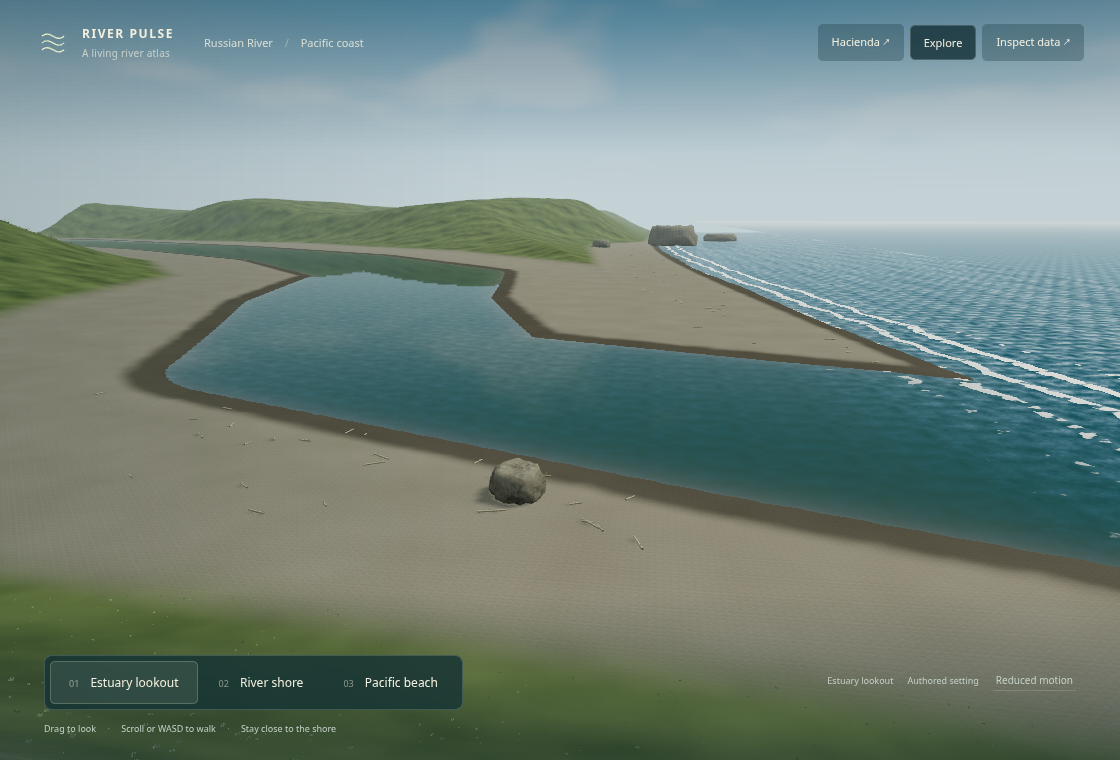
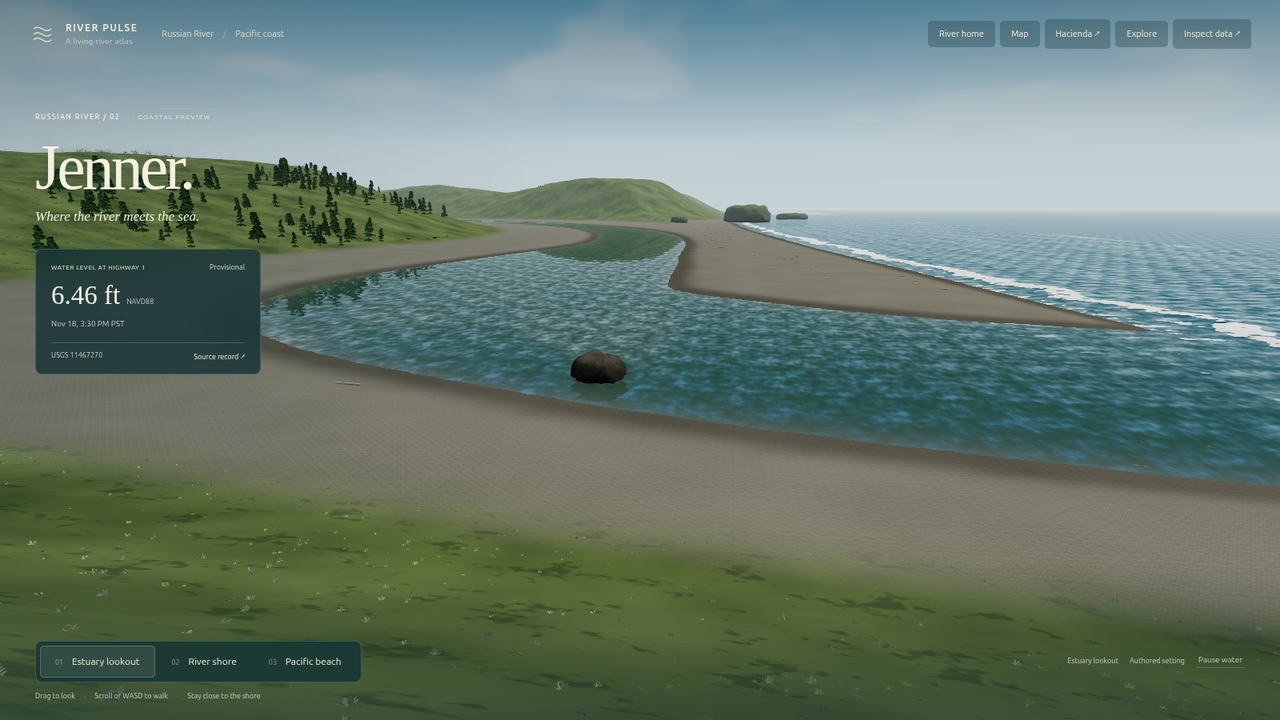
README: fresh Jenner Estuary preview from the current scene

diff --git a/README.md b/README.md
@@ -21,7 +21,7 @@ or go straight to the reference river:
 [Hacienda Bridge](https://boxwrench.github.io/waterscape/river-pulse/rivers/russian_river/scenes/middle/hacienda_bridge/index.html) and
 [Jenner Estuary](https://boxwrench.github.io/waterscape/river-pulse/rivers/russian_river/scenes/end/jenner/index.html).
 
-![Jenner authored coastal preview: estuary, sand spit and Pacific surf](previews/jenner-estuary.png)
+![Jenner Estuary lookout: the Russian River estuary, sand spit and Pacific surf, with the live USGS water level at Highway 1](previews/jenner-estuary.png)
 
 ![Calaveras Reservoir from North ridge in live 3D](previews/calaveras-overlook.png)
 
